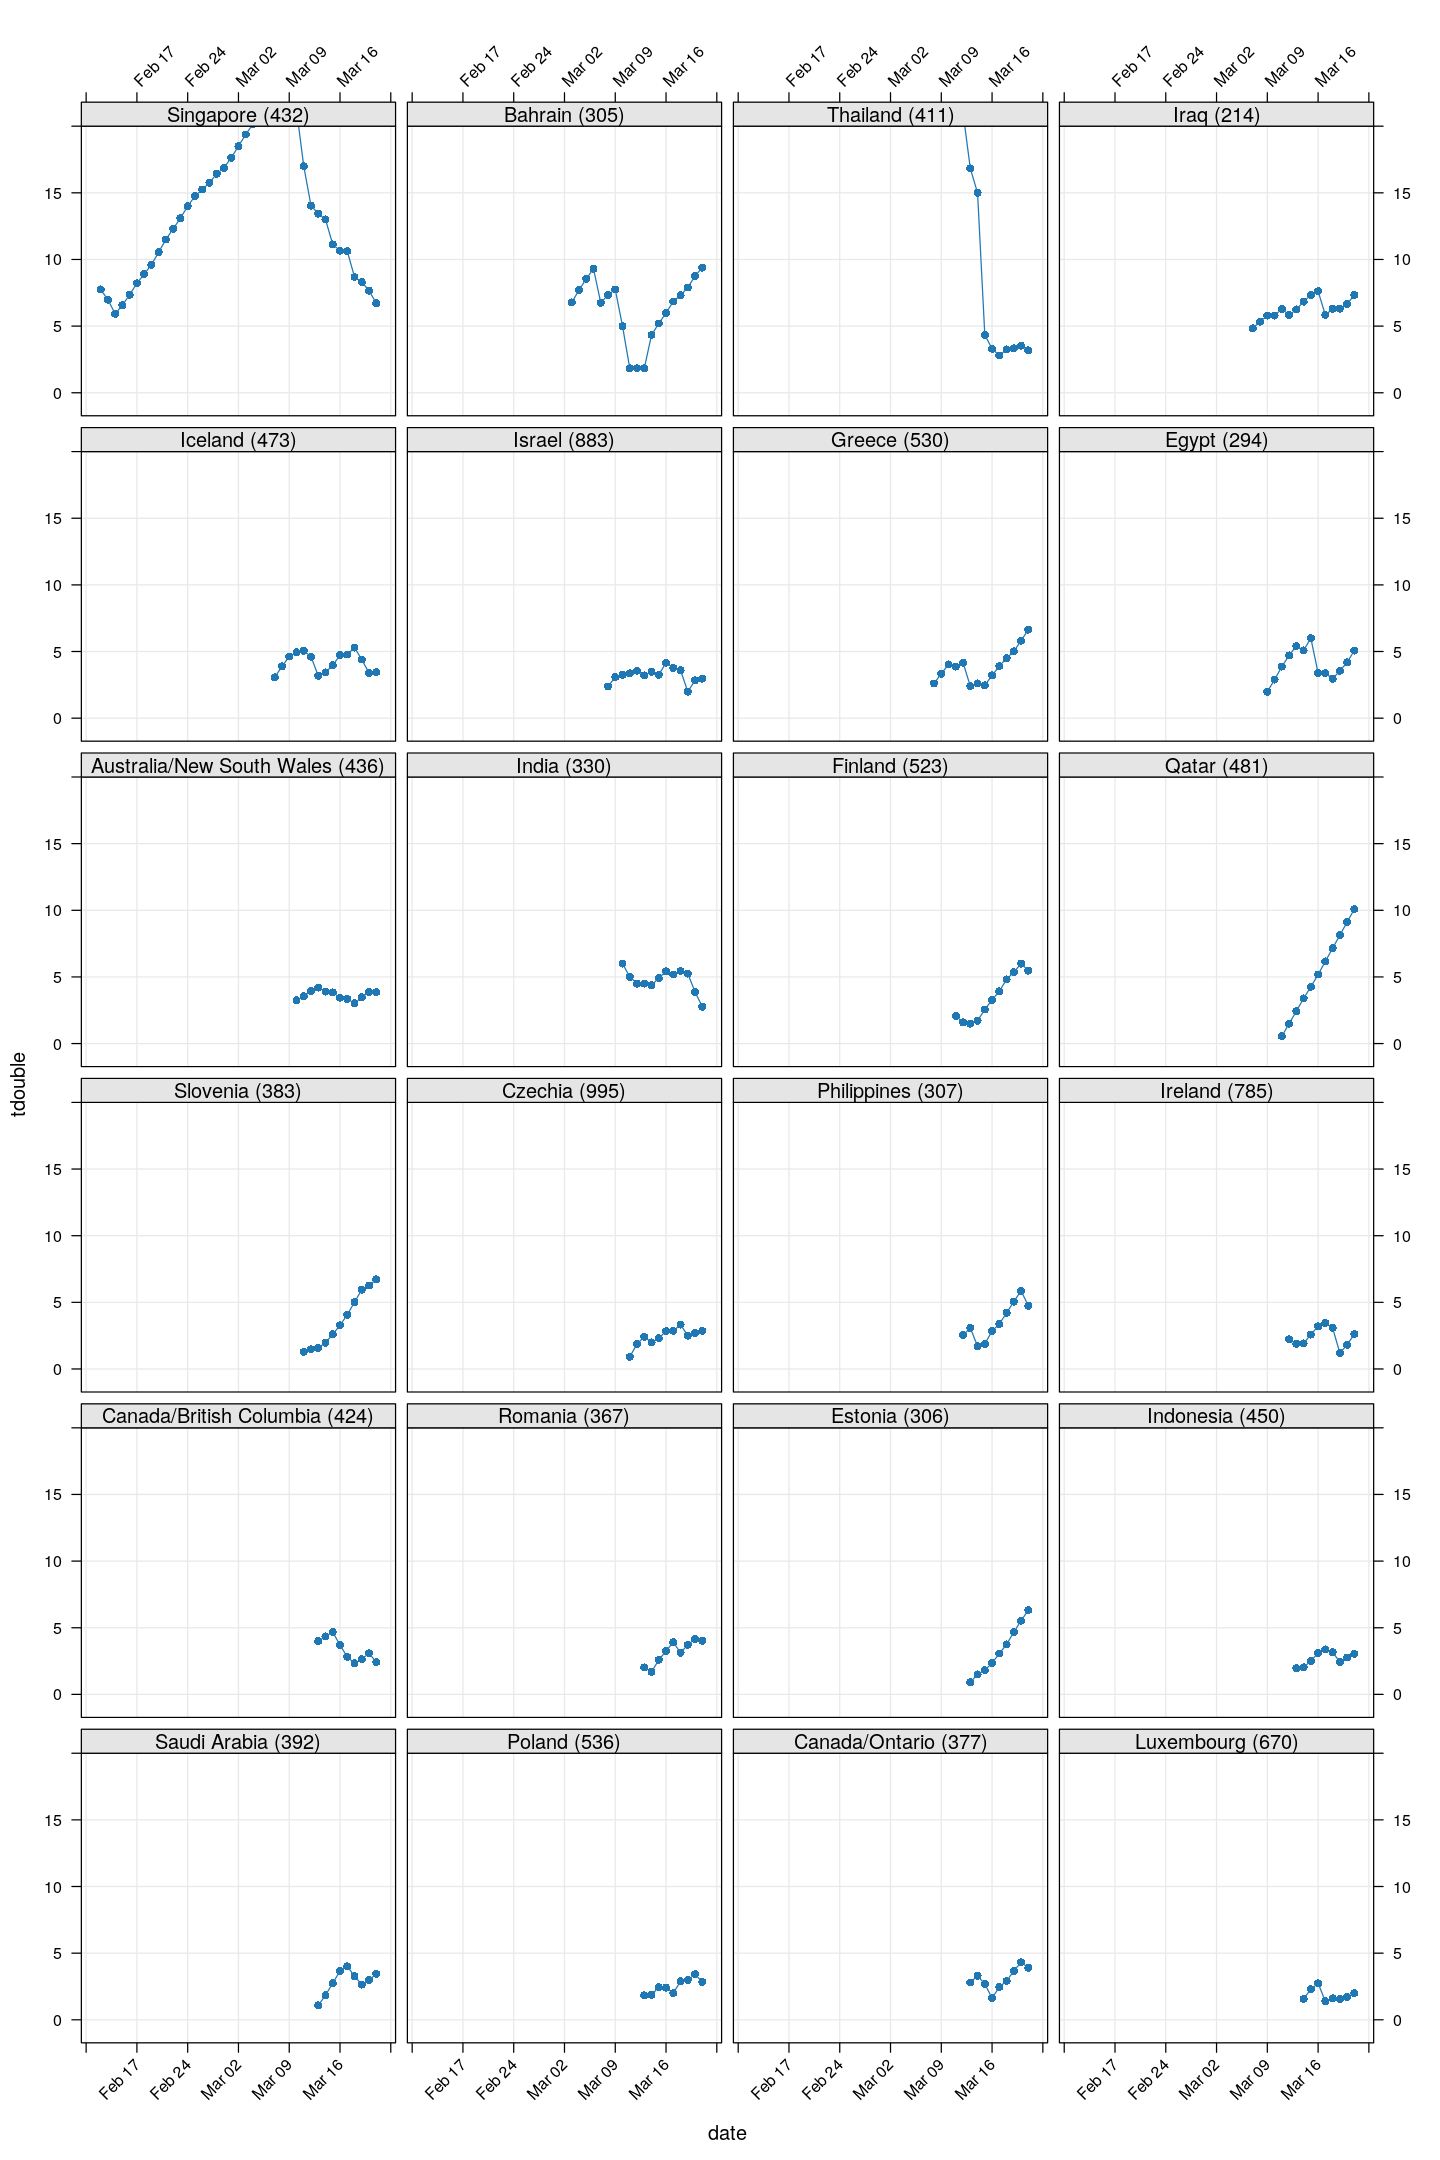
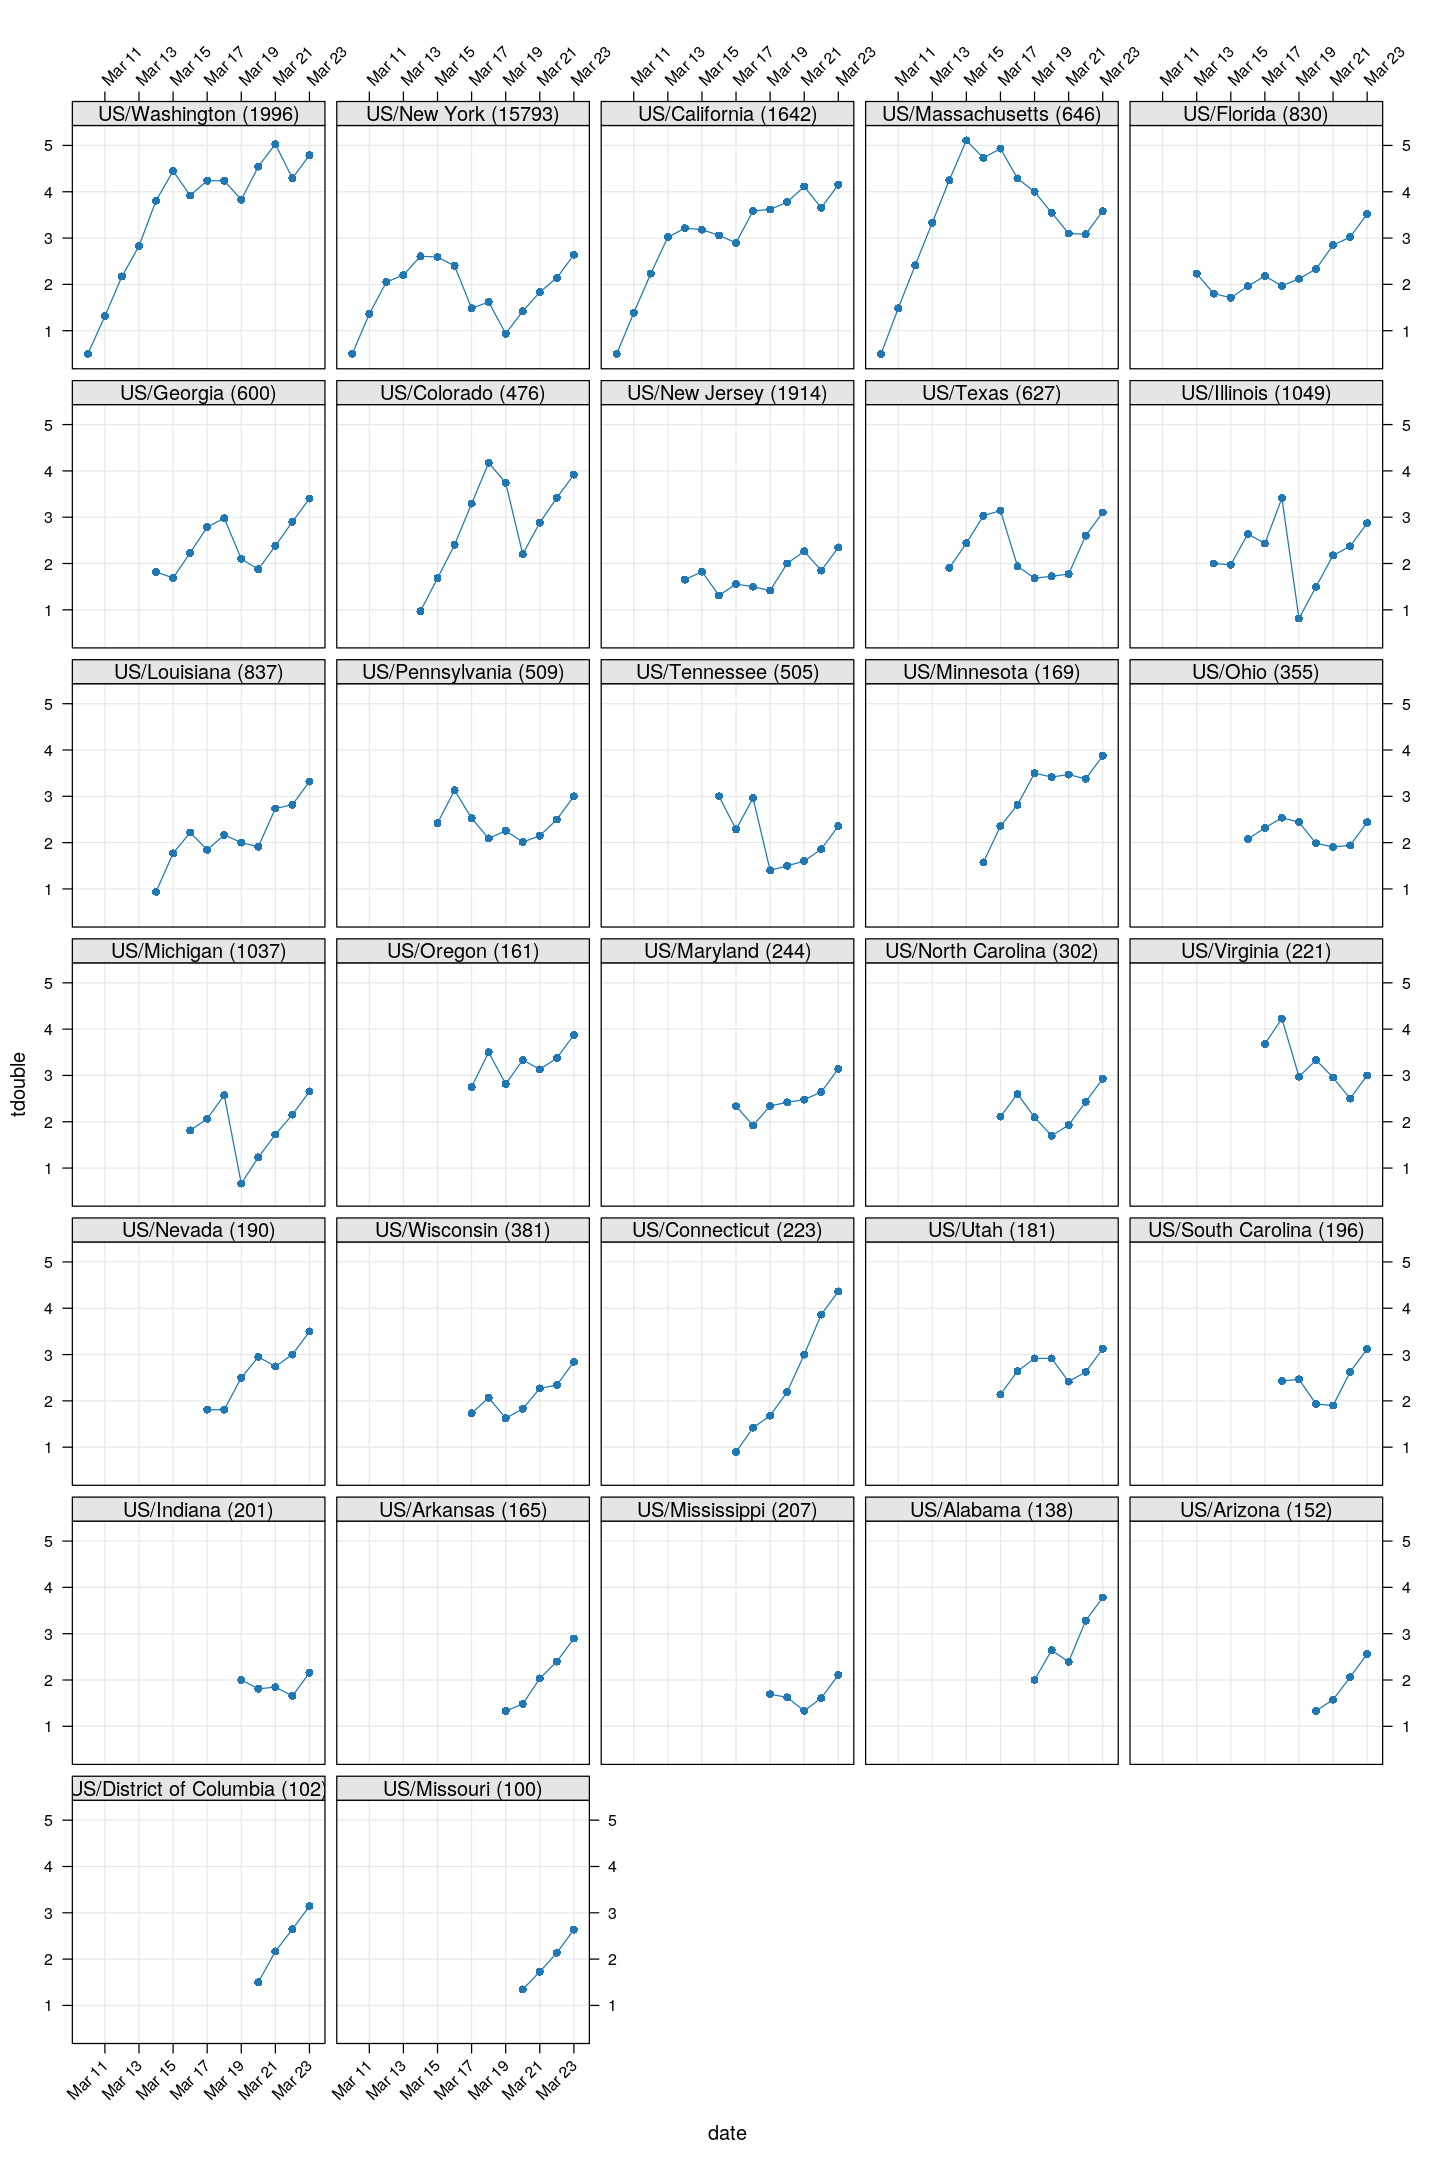
updated to latest data and hid R code by default

diff --git a/_layouts/default.html b/_layouts/default.html
@@ -17,6 +17,11 @@
   <link rel="stylesheet" href="https://fonts.googleapis.com/css?family=Noto Sans TC" >
 </head>
 
+<script src="https://code.jquery.com/jquery-3.4.1.slim.min.js"
+	integrity="sha384-J6qa4849blE2+poT4WnyKhv5vZF5SrPo0iEjwBvKU7imGFAV0wwj1yYfoRSJoZ+n"
+	crossorigin="anonymous">
+</script>
+
 <body>
   <div id="page-content">
     <section>
@@ -36,11 +41,6 @@
       </div>
     </section>
   </div>
-
-<script src="https://code.jquery.com/jquery-3.4.1.slim.min.js"
-	integrity="sha384-J6qa4849blE2+poT4WnyKhv5vZF5SrPo0iEjwBvKU7imGFAV0wwj1yYfoRSJoZ+n"
-	crossorigin="anonymous">
-</script>
 
 <script src="https://cdn.jsdelivr.net/npm/popper.js@1.16.0/dist/umd/popper.min.js"
 	integrity="sha384-Q6E9RHvbIyZFJoft+2mJbHaEWldlvI9IOYy5n3zV9zzTtmI3UksdQRVvoxMfooAo"

diff --git a/assets/styles/custom.css b/assets/styles/custom.css
@@ -1,3 +1,20 @@
+@media screen {
+    body
+    {
+	font-family: 'Noto Sans TC';
+    }
+}
+
+@media print {
+    body
+    {
+	font-family: 'Noto Serif TC';
+    }
+}
+
+
+
+
 
 h1.title { text-align: left; }
 p.author { text-align: left; }
@@ -23,19 +40,5 @@ h1, h2, h3
 }
 h3 { font-style: italic; }
 
-
-@media screen {
-    body
-    {
-	font-family: 'Noto Sans TC';
-    }
-}
-
-@media print {
-    body
-    {
-	font-family: 'Noto Serif TC';
-    }
-}
 
 

diff --git a/covid-19/doubling.md b/covid-19/doubling.md
@@ -7,31 +7,41 @@ author: Deepayan Sarkar
 
 
 
+
 Is "social distancing" working in your country? How is it doing
 compared to other countries? How long will it take for the number of
 cases to reach 50,000? Or 100,000? Or a million?
 
-This is an attempt to summarize how successfully various countries /
-regions are containing the spread COVID-19, based on a very simple
-summary statistic: how long it is taking to double the number of
-cases, and how this "doubling time" changes over time.
+This is an attempt to summarize, on an ongong basis, how successfully
+various countries / regions are containing the spread COVID-19, based
+on a very simple summary statistic: how long it is taking to double
+the number of cases, and how this "doubling time" changes over time.
 
 The analysis is based on the official number of _confirmed_ cases,
 based on data provided by [JHU
 CSSE](https://github.com/CSSEGISandData/COVID-19/tree/master/csse_covid_19_data/csse_covid_19_time_series)
-on Github. Not all countries are testing equally aggressively (e.g.,
-India), so these numbers may not reflect the actual number of
-cases. In the long run though, that does not matter as long as the
-_proportion_ of true cases being detected remains more or less stable.
+on Github. Not all countries are testing equally aggressively, for
+various reasons. For example, India is testing (as on [March
+20](https://www.mohfw.gov.in/pdf/ICMRrevisedtestingstrategyforCOVID.pdf))
+only symptomatic individuals who are international travelers, contacts
+of positive cases, health care workers, and unlinked symptomatic
+patients serious enough to be hospitalized.  So, these numbers may not
+reflect the actual number of cases. In the long run though, that does
+not matter as long as the _proportion_ of true cases being detected
+remains more or less stable (even this proportion may change as the
+testing poicy is refined).
 
 Here is the [source](doubling.rmd) of this analysis, in case you want
-to experiment with it.
+to experiment with it. The analysis is done using R, click 
+<a href="#" data-toggle="collapse" data-target="div.sourceCode" aria-expanded="true">here</a>
+to show / hide the R code.
 
-Executive summary: In most countries, the number of cases double every
-3 to 5 days. This means that if you have, say, 1000 cases today, you
-will have 50,000 cases in around 3 weeks from today, and a million
-cases in one and a half months. Unless the doubling time increases
-soon.
+## Executive summary
+
+In most countries, the number of cases are doubling every 3 to 5
+days. This means that if you have, say, 1000 cases today, you will
+have 50,000 cases in around 3 weeks from today, and a million cases in
+one and a half months. Unless the doubling time increases soon.
 
 For more substantive data-driven analysis, see
 [here](https://medium.com/@tomaspueyo/coronavirus-act-today-or-people-will-die-f4d3d9cd99ca)
@@ -41,32 +51,27 @@ and
 
 ## Preparatory steps
 
-First, we download the data if not done already (to download the latest
-version, delete the file and run again):
+First, we download the data and read it in.
 
 
 ```r
 TARGET <- "time_series_19-covid-Confirmed.csv"
+## To download the latest version, delete the file and run again
 if (!file.exists(TARGET))
     download.file("https://github.com/CSSEGISandData/COVID-19/raw/master/csse_covid_19_data/csse_covid_19_time_series/time_series_19-covid-Confirmed.csv",
                   destfile = TARGET)
-```
-
-This version was last updated using data downloaded on 2020-03-22.
-
-
-Next, read in data:
-
-
-```r
 covid <- read.csv(TARGET, check.names = FALSE,
                   stringsAsFactors = FALSE)
 ```
 
+This version was last updated using data downloaded on 
+2020-03-24.
+
+
 Many of the high numbers are provinces in China, where spread is now
-more or less controlled. We consider them separately. Data for the US
-is also available separately by state, and we consider them separately
-as well. We exclude cases on cruise ships, which represent small
+more or less controlled. We consider them separately. Data for the
+USA, available separately by state, is considered separately as
+well. We exclude cases on cruise ships, which represent small
 populations.
 
 
@@ -126,7 +131,7 @@ dotplot(tail(total.row, 60),
                                equispaced.log = FALSE)))
 ```
 
-![plot of chunk unnamed-chunk-5](figures/doubling-unnamed-chunk-5-1.png)
+![plot of chunk unnamed-chunk-4](figures/doubling-unnamed-chunk-4-1.png)
 
 
 
@@ -158,11 +163,11 @@ exponential growth, we expect the doubling time to remain constant. If
 measures are being effective, we should see the doubling time
 increasing.
 
-To estimate the doubling times, we use `approxfun()` to do linear
-interpolation with day as function of number, and then use it to
-evaluate the "day" at which the number was half of the current count.
-To see how the doubling time has evolved over time, we compute the
-doubling time using data upto a given timepoint, but only starting
+To estimate the doubling times, we use the R function `approxfun()` to
+do linear interpolation with day as function of number, and then use
+it to evaluate the "day" at which the number was half of the current
+count.  To see how the doubling time has evolved over time, we compute
+the doubling time using data upto a given timepoint, but only starting
 from days when the total count has exceeded 50, so that the estimates
 are not meaningless.
 
@@ -218,7 +223,7 @@ xyplot(tdouble ~ date | reorder(region, tdouble, function(x) -length(x)),
                      col = "grey50", lwd = 2, lty = 3))
 ```
 
-![plot of chunk unnamed-chunk-7](figures/doubling-unnamed-chunk-7-1.png)
+![plot of chunk unnamed-chunk-6](figures/doubling-unnamed-chunk-6-1.png)
 
 
 As of March 22, the doubling time in Hong Kong had stabilized (at
@@ -250,28 +255,27 @@ xyplot(tdouble ~ date | reorder(region, tdouble, function(x) -length(x)),
        as.table = TRUE, between = list(x = 0.5, y = 0.5))
 ```
 
-![plot of chunk unnamed-chunk-8](figures/doubling-unnamed-chunk-8-1.png)
+![plot of chunk unnamed-chunk-7](figures/doubling-unnamed-chunk-7-1.png)
 
 
 Unfortunately, most of these countries do not show systematic increase
 in the doubling time, which in most cases hovers around a value less
 than five days. This indicates uncontrolled exponential growth; at the
-current rates (as on March 21), for example,
+current rates as on March 21, for example,
 
-- Germany will reach 50,000 cases by March 25
+- Germany was on its way to reach 50,000 cases by March 25
 
-- Spain will reach 50,000 cases by March 27
+- Spain would have reached 50,000 cases by March 27
 
-- France will reach 50,000 cases by March 31
+- France would have reached 50,000 cases by March 31
 
-- UK will reach 50,000 cases between March 31 and April 8
-
-- Austria (currently less than 2500) may reach 50,000 cases by April 10
-
-- Portugal (currently around 1000) may actually reach 50,000 cases sooner
+But all three have been showing steady improvement since then. Not so
+(yet) for the UK, which is on track to reach 50,000 cases between
+March 31 and April 8.
 
 The countries that seem to be doing well are Denmark, Sweden, and
 Norway, and to a lesser extent Iran and even Italy.
+
 
 
 ### Countries with less widespread infections
@@ -295,7 +299,7 @@ xyplot(tdouble ~ date | reorder(region, tdouble, function(x) -length(x)),
        abline = list(v = as.Date("2020-01-23"), col = "grey50", lwd = 2, lty = 3))
 ```
 
-![plot of chunk unnamed-chunk-9](figures/doubling-unnamed-chunk-9-1.png)![plot of chunk unnamed-chunk-9](figures/doubling-unnamed-chunk-9-2.png)
+![plot of chunk unnamed-chunk-8](figures/doubling-unnamed-chunk-8-1.png)![plot of chunk unnamed-chunk-8](figures/doubling-unnamed-chunk-8-2.png)
 
 
 It is too early to say how things will go for these countries, as the
@@ -323,12 +327,25 @@ xyplot(tdouble ~ date | reorder(region, tdouble, function(x) -length(x)),
                      col = "grey50", lwd = 2, lty = 3))
 ```
 
-![plot of chunk unnamed-chunk-10](figures/doubling-unnamed-chunk-10-1.png)
+![plot of chunk unnamed-chunk-9](figures/doubling-unnamed-chunk-9-1.png)
 
 
 Again, it is too early to say much. The initial steep climb in several
 states is probably due to delay in starting to test, but generally
 things don't look good, with the doubling time at around 5 days or
 less everywhere as of now.
+
+
+
+<script type="text/javascript">
+$(document).ready(
+  function() {
+    $( "div.highlighter-rouge" ).addClass( "sourceCode" );
+    $( "div.sourceCode" ).addClass( "collapse" );
+  }
+);
+</script>
+
+ 
 
 
